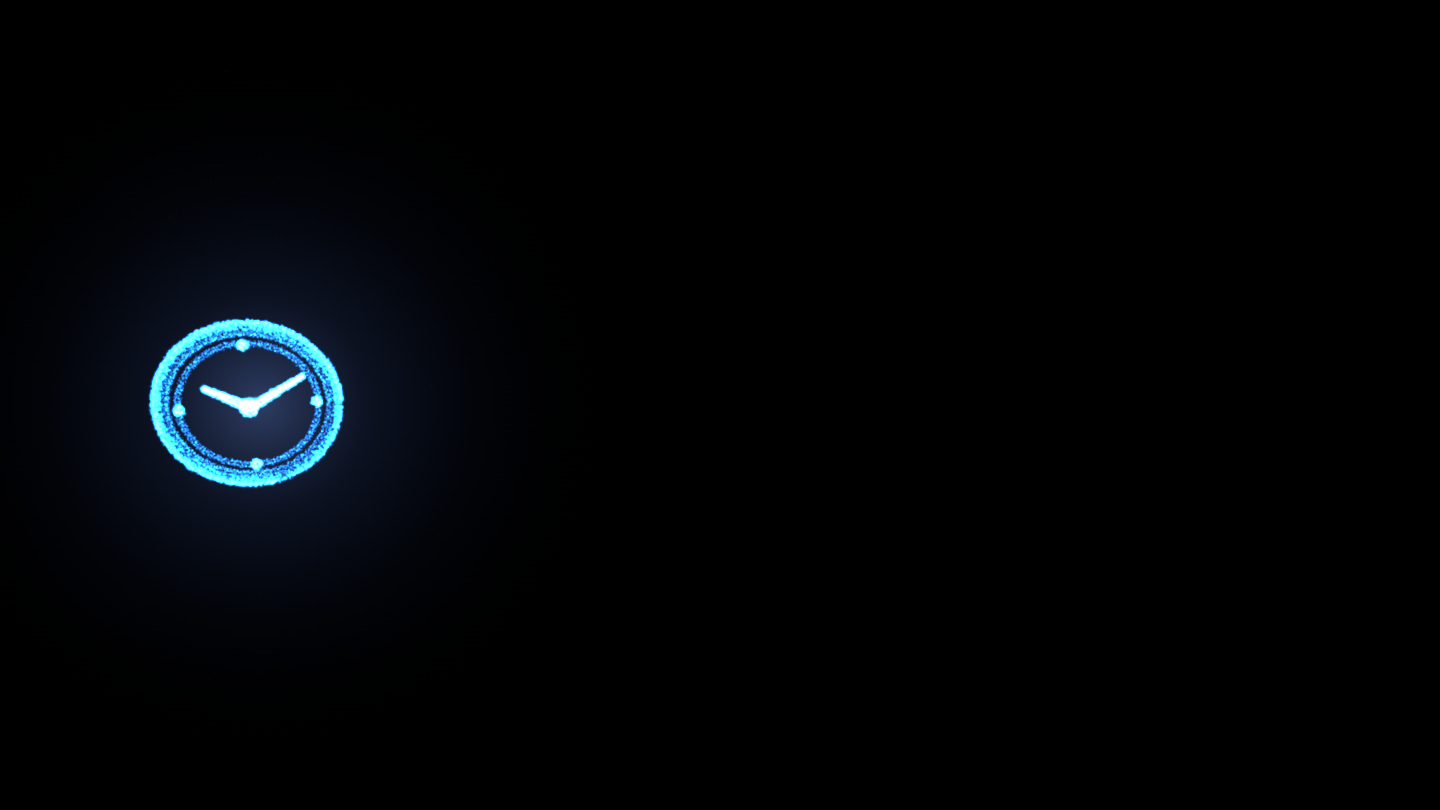
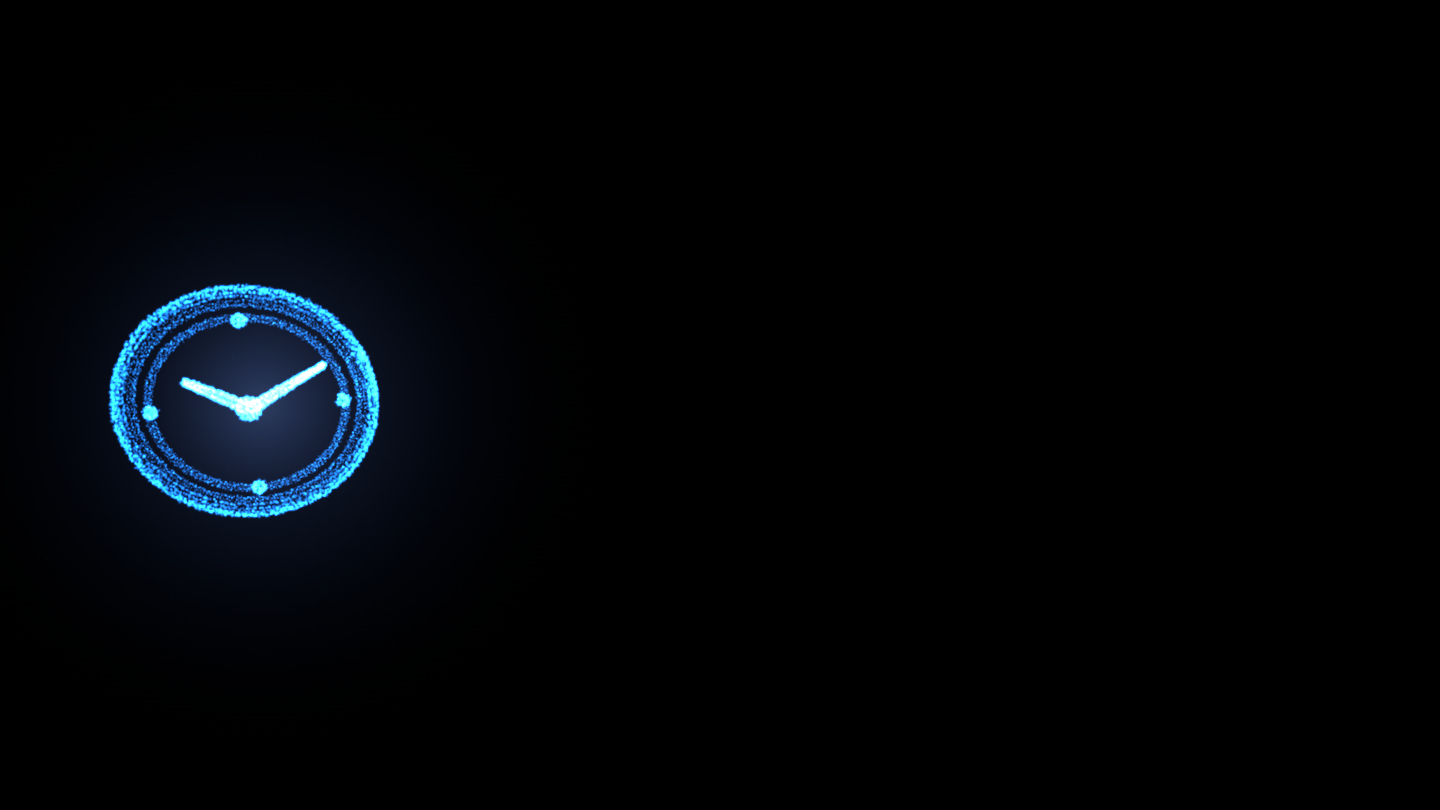
Move sparkle cluster to AI Implementation card, restore clock on Workflow
Object 04 (Workflow Automation) returns to the premium 3D clock design.
The sparkle cluster now renders on Object 05 (AI Implementation) where it
was intended. Card index 4 added to the tag-0 edge-boost list so the
sparkle's bright edges enlarge correctly.

https://claude.ai/code/session_01L78wPX7NWwYVcQW3oYqJZt

Changed region(s): [[0.0625, 0.3395, 0.2812, 0.6481]]

diff --git a/src/components/scene/HeroOrb.jsx b/src/components/scene/HeroOrb.jsx
@@ -504,6 +504,101 @@ function _genCodeBlock() {
   return out
 }
 function _genWorkflowPath() {
+  // Premium 3D clock built from orbs — time symbol for Workflow Automation.
+  // Outer torus ring (with real tube thickness) + thin inner bezel ring + center
+  // hub + two tapered hands at a 10:10 luxury angle + four minimal markers.
+  // The whole form is tilted into a subtle 3/4 perspective so depth reads.
+  const pts = [], tags = []
+
+  // Overall scale — sized so the clock's diameter matches the neighbouring
+  // Object 03 (code block, ~1.84R tall) rather than reading much smaller.
+  const S = 1.4
+
+  // 3/4 tilt: rotate about Y then X so the disc shows depth, hands lift off the face.
+  const ax = 0.34, ay = 0.20
+  const cax = Math.cos(ax), sax = Math.sin(ax), cay = Math.cos(ay), say = Math.sin(ay)
+  const addPt = (x, y, z, jit, tag) => {
+    x += (Math.random()-.5)*jit; y += (Math.random()-.5)*jit; z += (Math.random()-.5)*jit
+    const x1 = x*cay + z*say, z1 = -x*say + z*cay
+    const y2 = y*cax - z1*sax, z2 = y*sax + z1*cax
+    pts.push(x1, y2, z2); tags.push(tag)
+  }
+
+  // Solid orb sphere: bright shell (tag-0) + light interior fill (tag-1).
+  const addSphere = (cx, cy, cz, r, N, passes, shellTag=0) => {
+    const gold = Math.PI*(3-Math.sqrt(5))
+    for (let p=0; p<passes; p++)
+      for (let i=0; i<N; i++) {
+        const fy=1-(i/(N-1))*2, fr=Math.sqrt(1-fy*fy), fa=gold*i
+        const rr=r*(0.92+Math.random()*0.08)
+        addPt(cx+Math.cos(fa)*fr*rr, cy+fy*rr, cz+Math.sin(fa)*fr*rr, 0.006, shellTag)
+      }
+    const nI=Math.floor(N*0.5)
+    for (let i=0; i<nI; i++) {
+      const fy=1-(i/(nI-1))*2, fr=Math.sqrt(1-fy*fy), fa=gold*i*1.7
+      const rr=r*Math.cbrt(Math.random())*0.8
+      addPt(cx+Math.cos(fa)*fr*rr, cy+fy*rr, cz+Math.sin(fa)*fr*rr, 0.006, 1)
+    }
+  }
+
+  // Torus ring: major circle radius Rmaj, tube thickness tubeR. Outward-facing
+  // cross-section orbs are tag-0 (bright crisp rim), inner-facing are tag-1.
+  const addTorus = (Rmaj, tubeR, Nmaj, Nmin, brightOuter=true) => {
+    for (let i=0; i<Nmaj; i++) {
+      const a=(i/Nmaj)*Math.PI*2, ca=Math.cos(a), sa=Math.sin(a)
+      for (let j=0; j<Nmin; j++) {
+        const b=(j/Nmin)*Math.PI*2
+        const rr=tubeR*(0.9+Math.random()*0.1)
+        const R0=Rmaj+Math.cos(b)*rr
+        const tag = brightOuter ? (Math.cos(b)>0.15 ? 0 : 1) : 1
+        addPt(ca*R0, sa*R0, Math.sin(b)*rr, 0.005, tag)
+      }
+    }
+  }
+
+  // Tapered hand: volumetric tube from hub outward, lifted above the face in +z.
+  const drawHand = (ang, len, w0, w1, zLift) => {
+    const dx=Math.cos(ang), dy=Math.sin(ang)
+    const px=-dy, py=dx  // perpendicular in face plane
+    const nSeg=Math.max(Math.ceil(len/0.011), 14)
+    for (let s=0; s<=nSeg; s++) {
+      const t=s/nSeg
+      const cx=dx*len*t, cy=dy*len*t
+      const w=w0+(w1-w0)*t
+      const ringN=8
+      for (let k=0; k<ringN; k++) {
+        const b=(k/ringN)*Math.PI*2
+        const rr=w*(0.82+Math.random()*0.18)
+        addPt(cx+Math.cos(b)*rr*px, cy+Math.cos(b)*rr*py, zLift+Math.sin(b)*rr, 0.005, 0)
+      }
+    }
+  }
+
+  // Outer frame — substantial bright torus (the dominant, most readable silhouette).
+  addTorus(R*0.60*S, R*0.055*S, 240, 14, true)
+  // Inner bezel — thin subtle ring for the premium watch-face feel.
+  addTorus(R*0.485*S, R*0.018*S, 210, 7, false)
+
+  // Center hub — small dense bright orb, anchor of the hands.
+  addSphere(0, 0, R*0.055*S, R*0.062*S, 70, 3, 0)
+
+  // Two hands at a 10:10 luxury display angle (12 o'clock = +Y / 90°).
+  // Hour (short) → 10 o'clock = 150°; minute (long) → 2 o'clock = 30°.
+  // Minute hand lifted slightly higher so it layers above the hour hand.
+  drawHand(Math.PI*5/6, R*0.34*S, R*0.034*S, R*0.015*S, R*0.050*S)  // hour, 10 o'clock
+  drawHand(Math.PI/6,   R*0.46*S, R*0.030*S, R*0.012*S, R*0.075*S)  // minute, 2 o'clock
+
+  // Four minimal markers at 12 / 3 / 6 / 9.
+  const mR=R*0.475*S
+  for (const ma of [Math.PI/2, 0, -Math.PI/2, Math.PI]) {
+    addSphere(Math.cos(ma)*mR, Math.sin(ma)*mR, R*0.02*S, R*0.034*S, 30, 2, 0)
+  }
+
+  const out = _padToBigTagged(pts, tags, N_ORB, 0.035)
+  out.normal = [0, 0, 1]
+  return out
+}
+function _genIntelligenceOrbit() {
   // Premium sparkle cluster: three 4-pointed sparkles (large / medium / small).
   // Silhouette = 3D-puffed astroid  x = Rs·sin³t, y = Rs·cos³t.
   const pts = [], tags = []
@@ -557,24 +652,6 @@ function _genWorkflowPath() {
   const out = _padToBigTagged(pts, tags, N_ORB, 0.035)
   out.normal = [0, 0, 1]
   return out
-}
-function _genIntelligenceOrbit() {
-  const pts=[], cR=R*.36, oR=R*.84, tilt=Math.PI/5.5
-  for (let i=0; i<108; i++) {
-    const phi=Math.acos(2*Math.random()-1), theta=Math.random()*Math.PI*2
-    const r=cR*(0.96+Math.random()*.08)
-    pts.push(r*Math.sin(phi)*Math.cos(theta), r*Math.cos(phi), r*Math.sin(phi)*Math.sin(theta))
-  }
-  for (let i=0; i<76; i++) {
-    const a=(i/76)*Math.PI*2
-    pts.push(Math.cos(a)*oR+(Math.random()-.5)*.022, Math.sin(a)*oR*Math.sin(tilt)+(Math.random()-.5)*.022, Math.sin(a)*oR*Math.cos(tilt)+(Math.random()-.5)*.022)
-  }
-  const satA=Math.PI*.42
-  for (let k=0; k<14; k++) {
-    const sa=satA+(Math.random()-.5)*.20, rr=oR*(1+(Math.random()-.5)*.06)
-    pts.push(Math.cos(sa)*rr, Math.sin(sa)*rr*Math.sin(tilt), Math.sin(sa)*rr*Math.cos(tilt))
-  }
-  return _padToBig(pts, N_ORB)
 }
 function _genConnectedCubes() {
   const pts=[], cs=R*.26, ss=R*.18, dist=R*.80